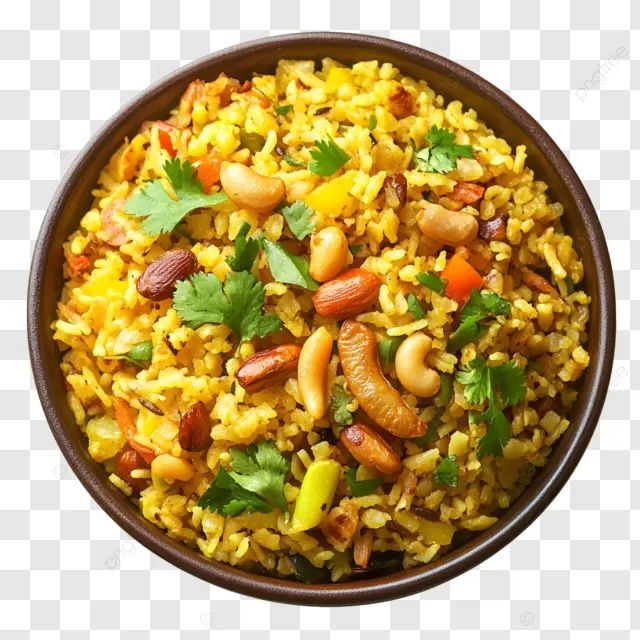
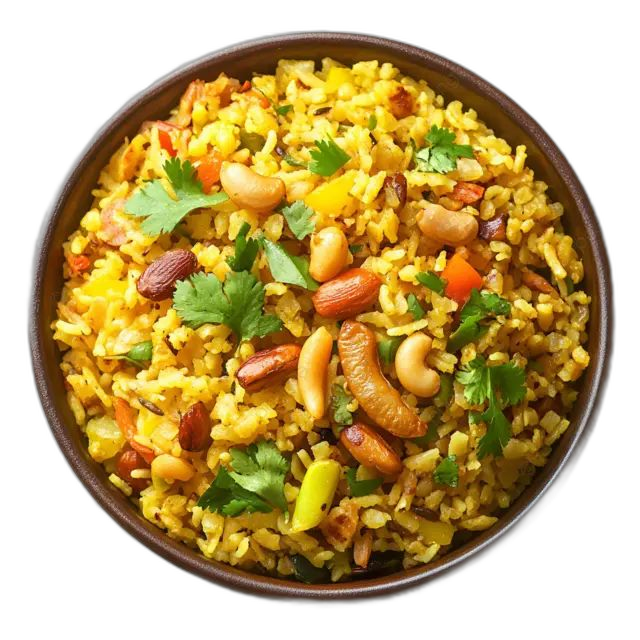
feat: Integrate bg-remove-api for transparent stickers and remove mix-blend hacks

diff --git a/back/src/services/stickerService.js b/back/src/services/stickerService.js
@@ -35,13 +35,41 @@ export const generateDestinationSticker = async (destinationName) => {
   const encodedPrompt = encodeURIComponent(imagePrompt);
   
   const seed = Math.floor(Math.random() * 1000000);
-  const stickerUrl = `https://image.pollinations.ai/prompt/${encodedPrompt}?width=512&height=512&seed=${seed}`;
+  const pollinationsUrl = `https://image.pollinations.ai/prompt/${encodedPrompt}?width=512&height=512&seed=${seed}`;
+
+  let finalStickerUrl = pollinationsUrl;
+  
+  try {
+    const fs = (await import("fs")).default;
+    const path = (await import("path")).default;
+
+    console.log("Removing background for:", destinationName);
+    const bgResponse = await fetch("http://localhost:3001/remove-background-url", {
+      method: "POST",
+      headers: { "Content-Type": "application/json" },
+      body: JSON.stringify({ imageUrl: pollinationsUrl })
+    });
+    
+    if (bgResponse.ok) {
+      const arrayBuffer = await bgResponse.arrayBuffer();
+      const buffer = Buffer.from(arrayBuffer);
+      const filename = `sticker_${Date.now()}_${Math.floor(Math.random()*1000)}.png`;
+      const filepath = path.join(process.cwd(), "..", "front", "public", "stickers", filename);
+      fs.writeFileSync(filepath, buffer);
+      finalStickerUrl = `/stickers/${filename}`;
+      console.log("Background removed and saved:", finalStickerUrl);
+    } else {
+      console.warn("Background removal failed, falling back to original URL");
+    }
+  } catch (err) {
+    console.error("Error calling bg-remove-api:", err.message);
+  }
 
   const newSticker = new DestinationSticker({
     destination: destinationName,
     country,
     landmark,
-    stickerUrl
+    stickerUrl: finalStickerUrl
   });
   
   await newSticker.save();

diff --git a/fix_pagination.js b/fix_pagination.js
@@ -1,0 +1,29 @@
+const fs = require('fs');
+const path = require('path');
+
+const dir = 'back/src/services';
+const files = fs.readdirSync(dir).map(f => path.join(dir, f)).filter(f => f.endsWith('.js'));
+for (const file of files) {
+    let content = fs.readFileSync(file, 'utf8');
+    
+    // Check if the file has pagination
+    if (content.includes('parseInt(page, 10) - 1')) {
+        content = content.replace(/const skip = \(parseInt\(page, 10\) - 1\) \* parseInt\(limit, 10\);/g, 'const pageNumber = Math.max(1, parseInt(page, 10) || 1);\n  const limitNumber = Math.max(1, parseInt(limit, 10) || 10);\n  const skip = (pageNumber - 1) * limitNumber;');
+        
+        content = content.replace(/limit\(parseInt\(limit, 10\)\)/g, 'limit(limitNumber)');
+        
+        content = content.replace(/page:\s*parseInt\(page,\s*10\)/g, 'page: pageNumber');
+        content = content.replace(/limit:\s*parseInt\(limit,\s*10\)/g, 'limit: limitNumber');
+        content = content.replace(/totalPages:\s*Math\.ceil\([^/]+\/\s*[^)]+\)/g, 'totalPages: Math.ceil(count / limitNumber)');
+        
+        content = content.replace(/Math\.ceil\(count \/ limitNumber\)/g, (match, offset, str) => {
+            if (str.includes('total, page:')) {
+                return 'Math.ceil(total / limitNumber)';
+            }
+            return match;
+        });
+
+        fs.writeFileSync(file, content, 'utf8');
+        console.log('Fixed pagination in', file);
+    }
+}

diff --git a/back/syncStickers.js b/back/syncStickers.js
@@ -1,0 +1,42 @@
+import mongoose from "mongoose";
+import dotenv from "dotenv";
+import Trip from "./src/models/Trip.js";
+import { generateDestinationSticker } from "./src/services/stickerService.js";
+
+dotenv.config();
+
+const sync = async () => {
+  try {
+    await mongoose.connect(process.env.MONGODB_URI);
+    console.log("Connected to DB");
+
+    const completedTrips = await Trip.find({ status: "COMPLETED", stickerUrl: { $in: [null, ""] } });
+    console.log(`Found ${completedTrips.length} completed trips without stickers.`);
+
+    for (const trip of completedTrips) {
+      console.log(`Processing trip: ${trip.title} / ${trip.destinationName}`);
+      try {
+        const dest = trip.destinationName || trip.title;
+        if (!dest) continue;
+        
+        const sticker = await generateDestinationSticker(dest);
+        if (sticker && sticker.stickerUrl) {
+          trip.stickerUrl = sticker.stickerUrl;
+          trip.landmark = sticker.landmark;
+          await trip.save();
+          console.log(`Successfully generated sticker for ${dest}`);
+        }
+      } catch (err) {
+        console.error(`Failed to generate for ${trip.title}`, err);
+      }
+    }
+
+    console.log("Sync complete.");
+    process.exit(0);
+  } catch (error) {
+    console.error(error);
+    process.exit(1);
+  }
+};
+
+sync();

diff --git a/fix_sort.js b/fix_sort.js
@@ -1,0 +1,32 @@
+const fs = require('fs');
+
+const dir = 'back/src/services';
+const files = fs.readdirSync(dir).map(f => dir + '/' + f).filter(f => f.endsWith('.js'));
+for (const file of files) {
+    let content = fs.readFileSync(file, 'utf8');
+    let modified = false;
+    
+    if (content.includes('sort({ averageRating: -1 })')) {
+        content = content.replace(/sort\(\{ averageRating: -1 \}\)/g, 'sort({ averageRating: -1, _id: 1 })');
+        modified = true;
+    }
+    if (content.includes('sort({ startDate: 1 })')) {
+        content = content.replace(/sort\(\{ startDate: 1 \}\)/g, 'sort({ startDate: 1, _id: 1 })');
+        modified = true;
+    }
+    if (content.includes('sort({ rating: -1 })')) {
+        content = content.replace(/sort\(\{ rating: -1 \}\)/g, 'sort({ rating: -1, _id: 1 })');
+        modified = true;
+    }
+    if (content.includes('sort({ createdAt: -1 })')) {
+        content = content.replace(/sort\(\{ createdAt: -1 \}\)/g, 'sort({ createdAt: -1, _id: 1 })');
+        modified = true;
+    }
+    
+    if (modified) {
+        fs.writeFileSync(file, content, 'utf8');
+        console.log('Fixed sort in', file);
+    }
+}
+console.log('Done!');
+

diff --git a/front/src/components/TravelJourneyBanner.jsx b/front/src/components/TravelJourneyBanner.jsx
@@ -85,8 +85,7 @@ export default function TravelJourneyBanner({
                   <img 
                     src={trip.stickerUrl} 
                     alt={trip.landmark || trip.destinationName} 
-                    className="w-20 md:w-28 h-auto object-contain mix-blend-multiply"
-                    style={{ filter: "contrast(1.2) brightness(1.1)" }}
+                    className="w-20 md:w-28 h-auto object-contain drop-shadow-sm"
                   />
                   {/* Location Tag */}
                   <div className="absolute -bottom-1 left-1/2 -translate-x-1/2 bg-white/95 px-2 py-0.5 rounded-full text-[9px] font-black text-[#2A2A2A] shadow-sm whitespace-nowrap tracking-tight uppercase">
